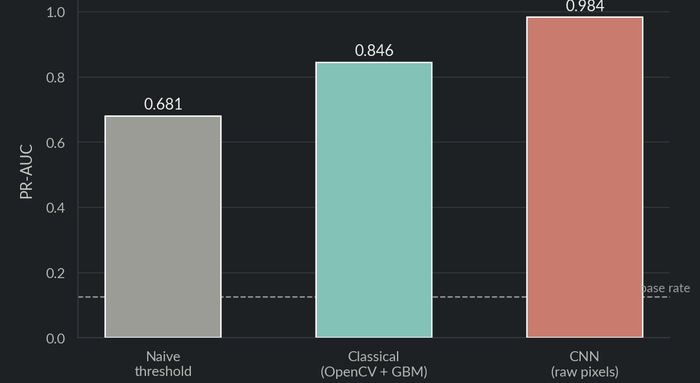
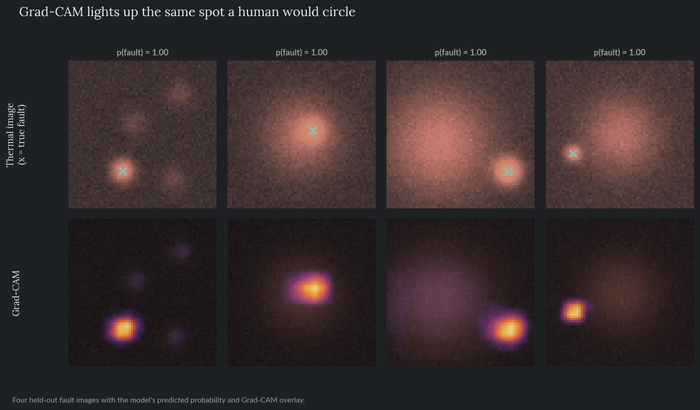
Fixed things

diff --git a/docs/index.html b/docs/index.html
@@ -533,7 +533,7 @@
 
       <!-- Project 10 -->
       <div class="card" data-category="vision">
-        <img class="chart" src="images/10-thermal-fault-detection.png" alt="PR-AUC comparison on held-out thermal images: naive brightness threshold, OpenCV-features classical model, and a CNN on raw pixels">
+        <img class="chart" src="images/10-thermal-fault-detection.png" alt="Grad-CAM overlays on four held-out thermal fault images, showing the CNN's attention lighting up the same hotspot a human inspector would circle">
         <div class="card-body">
           <div class="card-title">Thermal Fault Detection</div>
           <div class="card-pitch">A CNN trained on raw thermal-camera images beats an OpenCV handcrafted-feature baseline at spotting equipment faults, and Grad-CAM confirms it's looking at the actual fault, within a couple of pixels on average, not just scoring well by coincidence.</div>